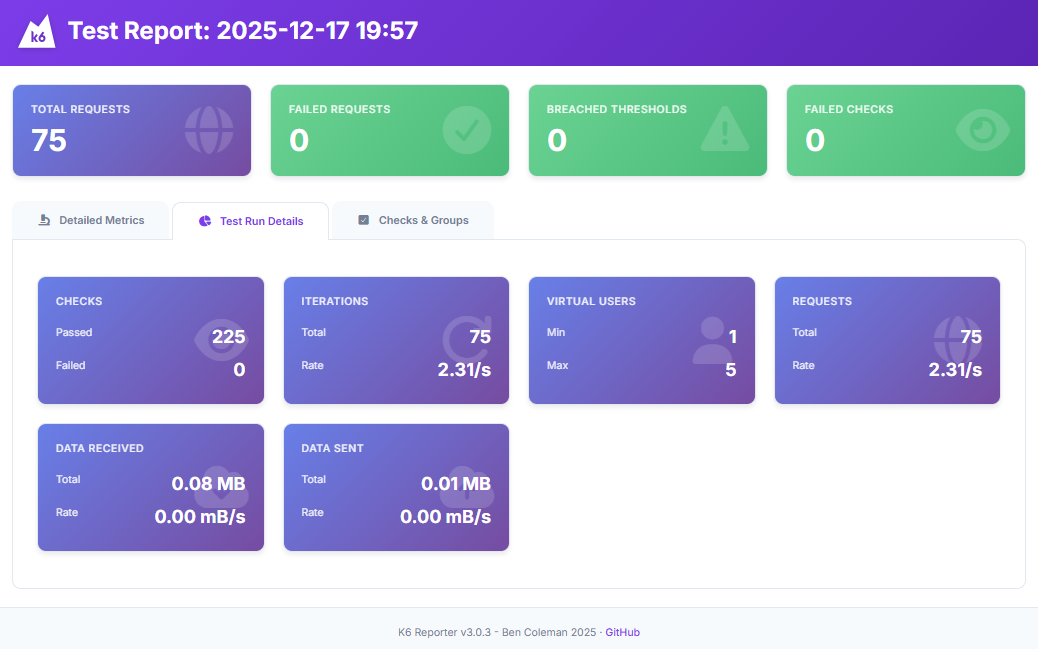
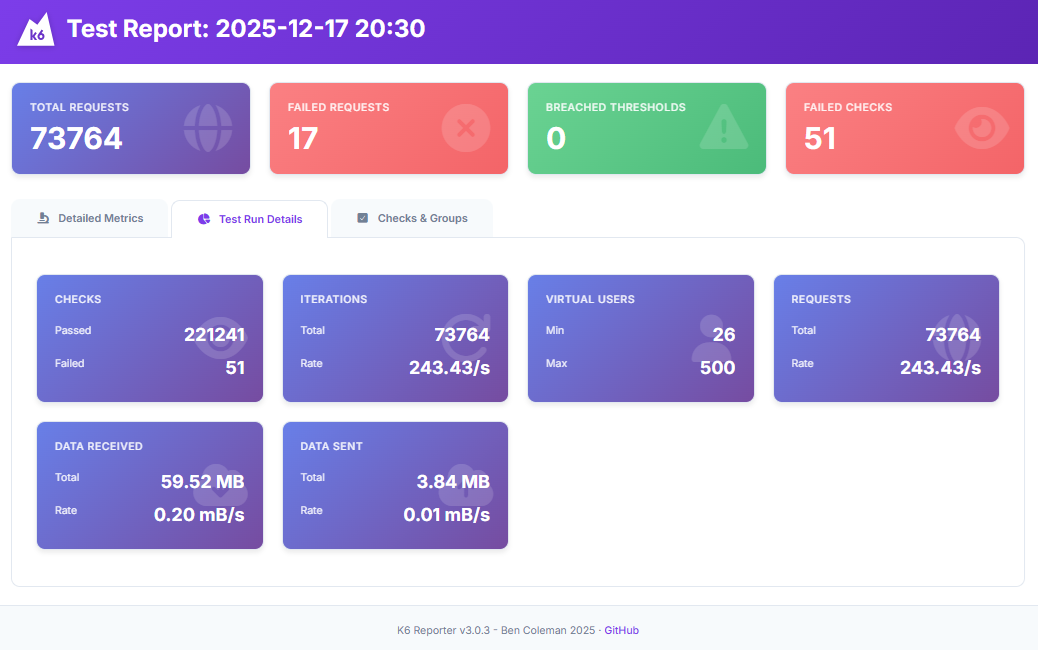
Ajusta parametros de execucao e evidencias

diff --git a/src/tests/jsonplaceholder-load.test.js b/src/tests/jsonplaceholder-load.test.js
@@ -6,12 +6,9 @@ import { randomIntBetween } from "https://jslib.k6.io/k6-utils/1.4.0/index.js";
 
 const BASE_URL = "https://jsonplaceholder.typicode.com";
 
-// Requisito do desafio
-// const VUS = parseInt(__ENV.VUS || "500", 10);
-// const DURATION = __ENV.DURATION || "5m";
-
-const VUS = parseInt(__ENV.VUS || "5", 10);
-const DURATION = __ENV.DURATION || "30s";
+// Parametros de execucao
+const VUS = parseInt(__ENV.VUS || "500", 10);
+const DURATION = __ENV.DURATION || "5m";
 
 // Variacao simples de IDs (1..20)
 const IDS = Array.from({ length: 20 }, (_, i) => i + 1);

diff --git a/README.md b/README.md
@@ -51,10 +51,9 @@ Workflow: `.github/workflows/ci.yml`
 3. Executa o teste (500 VUs / 5 min)
 4. Publica artifacts com relatório/summary/análise
 
-Baixe em: **Actions → run → Artifacts → k6-results**
+Baixe o resultado em: **Actions → run → Artifacts → k6-results**
 
 ## ScreenShots
-<img src="https://github.com/cremope/k6-performance/blob/main/ScreenShots/evidencia_ok_cmd_k6.png" width="400" /> 
 <img src="https://github.com/cremope/k6-performance/blob/main/ScreenShots/evidencia_ok_html_k6.png" width="400" /> 
 <img src="https://github.com/cremope/k6-performance/blob/main/ScreenShots/evidencia_ok_html_k6_2.png" width="400" /> 
-<img src="https://github.com/cremope/k6-performance/blob/main/ScreenShots/evidencia_ok_html_k6_3.png" width="400" /> 
+<img src="https://github.com/cremope/k6-performance/blob/main/ScreenShots/evidencia_ok_html_k6_3.png" width="400" /> cl
